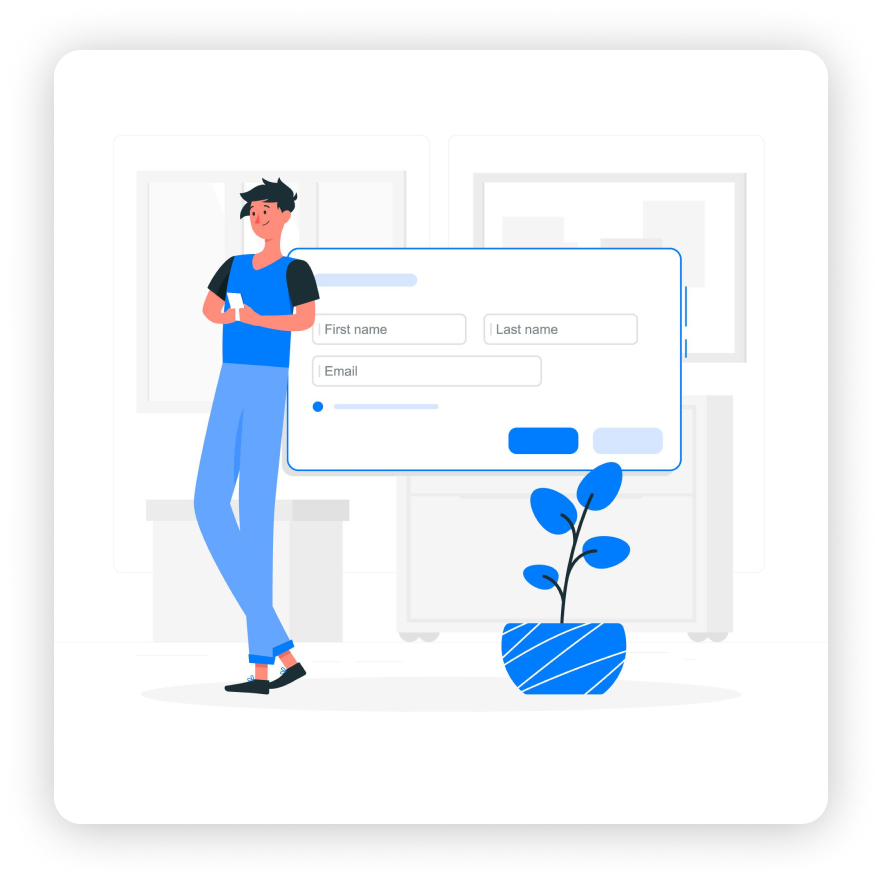
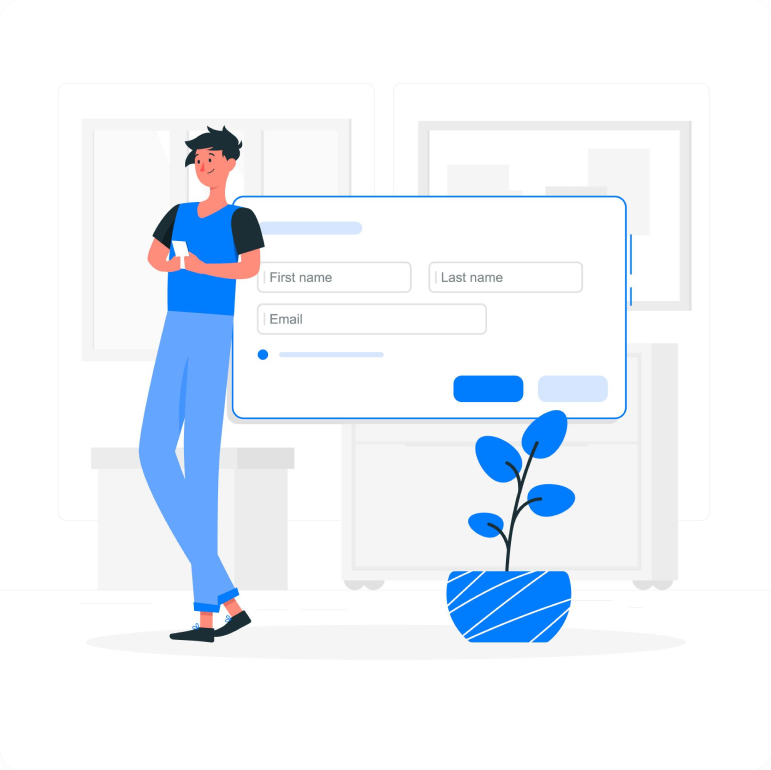
fixing login page

diff --git a/src/app/auth/page.jsx b/src/app/auth/page.jsx
@@ -2,11 +2,7 @@
 import React, { useEffect } from "react";
 import { useSelector } from "react-redux";
 import { useRouter } from "next/navigation";
-
-import Image from "next/image";
-// import Header from "@/components/Common/Header";
 import LoginRegister from "@/components/auth/LoginRegister";
-// import Footer from "@/components/Common/Footer";
 
 const Login = () => {
   const { login, userData } = useSelector((state) => state.auth);
@@ -27,23 +23,19 @@ const Login = () => {
 
   return (
     <div className="bg-white bg-right-blue">
-      {/* <Header /> */}
-      <div className="max-w-[1140px] 2xl:max-w-[1320px] lg:px-10 xl:px-0 mx-auto mb-[100px]">
-        <div className="md:flex justify-between items-center">
+      <div className="">
+        <div className="md:flex md:gap-[115px] justify-center md:justify-between mx-[16px] md:mx-[63px] md:my-[73px] items-center">
           <div
-            className="w-full md:w-[40%] lg:w-[62%] mt-6 hidden md:block"
+            className="hidden md:block"
             data-aos="fade-left"
             data-aos-delay="900"
           >
-            <div className="relative  rounded-lg overflow-hidden">
-              <div className="h-full ">
-                <img
-                  src="/assets/images/register.png"
-                  alt="Placeholder Image"
-                  className="w-full h-full object-cover"
-                />
-              </div>
-
+            <div className="relative rounded-[27px] overflow-hidden w-[774px] h-[774px] shadow-[0px_4px_54px_rgba(0,0,0,0.25)]">
+              <img
+                src="/assets/images/register.png"
+                alt="Placeholder Image"
+                className="object-cover w-[774px] h-[774px]"
+              />
               <div className="absolute w-[80%] h-[25%] bottom-20 rounded-md left-1/2 transform -translate-x-1/2 bg-gray-500/20 backdrop-blur-lg text-white text-center py-3">
                 <p className="text-sm font-semibold text-black">
                   Image Clickable Link
@@ -52,11 +44,7 @@ const Login = () => {
             </div>
           </div>
 
-          <div
-            className="md:w-[35%] lg:w-[25%] w-full px-3 mt-8"
-            data-aos="fa de-right"
-            data-aos-delay="800"
-          >
+          <div className="md:w-[426px] w-[349px]">
             <h1 className="text-black text-[30px] font-semibold pb-5">
               Welcome back 👋
             </h1>
@@ -67,7 +55,6 @@ const Login = () => {
           </div>
         </div>
       </div>
-      {/* <Footer /> */}
     </div>
   );
 };

diff --git a/src/components/auth/LoginRegister.jsx b/src/components/auth/LoginRegister.jsx
@@ -10,6 +10,8 @@ import { useRouter } from "next/navigation";
 import { validateMobileNumber, validateEmail } from "@/helper/validation";
 import "react-toastify/dist/ReactToastify.css";
 import { toast, ToastContainer } from "react-toastify";
+import VisibilityIcon from "@mui/icons-material/Visibility";
+import VisibilityOffIcon from "@mui/icons-material/VisibilityOff";
 
 const LoginRegister = ({ id }) => {
   const dispatch = useDispatch();
@@ -220,7 +222,11 @@ const LoginRegister = ({ id }) => {
                       onClick={togglePasswordVisibility}
                       className="absolute inset-y-0 right-0 flex items-center px-2 text-gray-400 focus:outline-none"
                     >
-                      {showPassword ? <>show</> : <>not show</>}
+                      {showPassword ? (
+                        <VisibilityIcon />
+                      ) : (
+                        <VisibilityOffIcon />
+                      )}
                     </button>
                   </div>
                 </div>
@@ -304,7 +310,11 @@ const LoginRegister = ({ id }) => {
                       onClick={togglePasswordVisibility}
                       className="absolute inset-y-0 right-0 flex items-center px-2 text-gray-400 focus:outline-none"
                     >
-                      {showPassword ? <>show</> : <>not show</>}
+                      {showPassword ? (
+                        <VisibilityIcon />
+                      ) : (
+                        <VisibilityOffIcon />
+                      )}
                     </button>
                   </div>
                 </div>

diff --git a/src/components/Layout/Navbar/index.jsx b/src/components/Layout/Navbar/index.jsx
@@ -148,6 +148,7 @@ function Navbar() {
               background: "white",
               color: "black",
               boxShadow: 0,
+              px: { md: "45px" },
             }}
           >
             <Toolbar>
